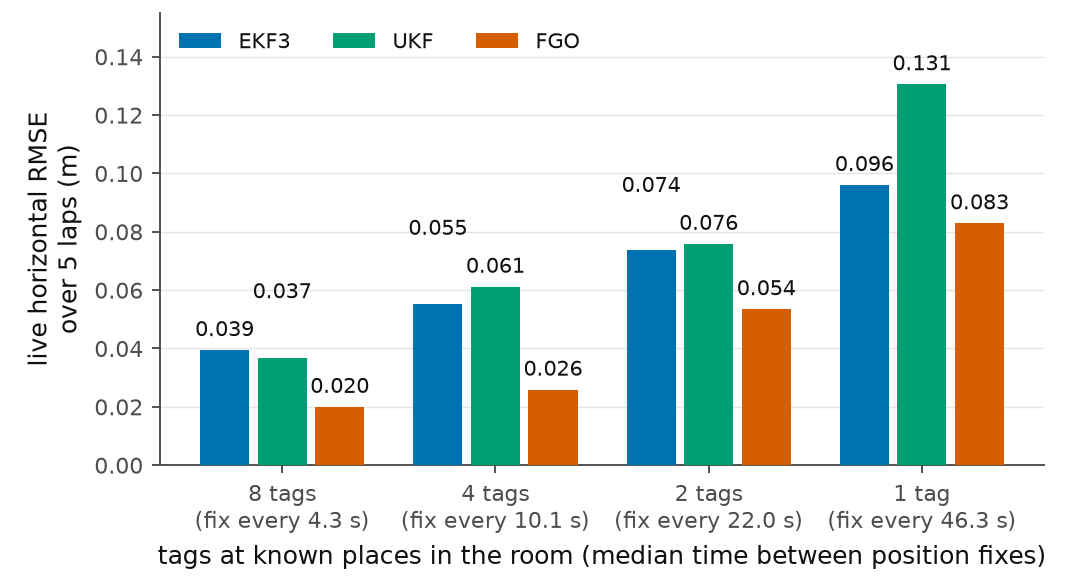
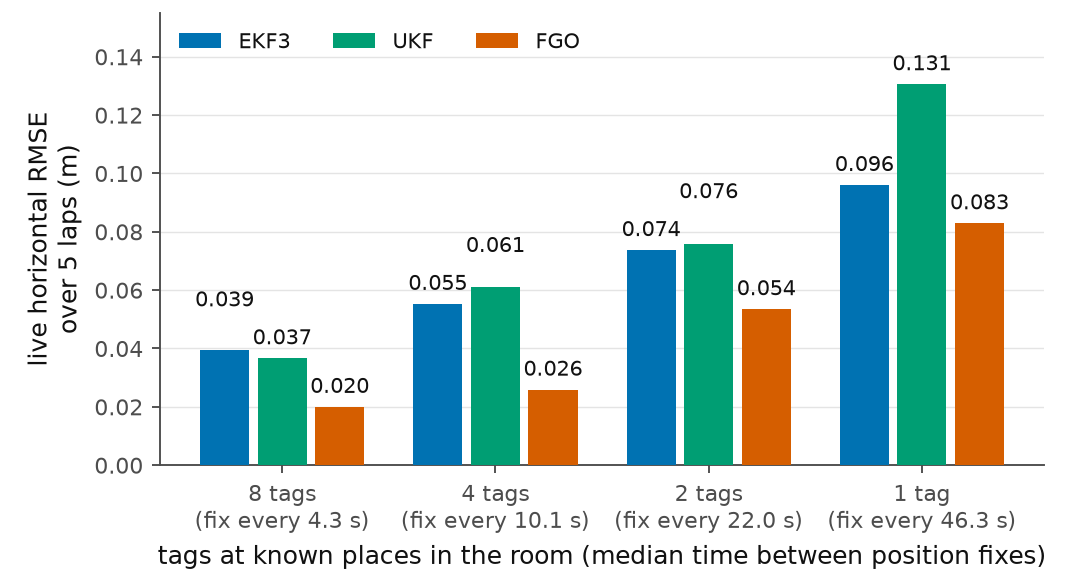
D124 Group B fix sweep round 2 (advisor review): cross-check B06/B07/B08 numbers, fix B07 EKF3 flight-set caption, B01 label order
Follow-up to ce3d9b6, after an advisor review of the round-1 fix sweep found four gaps that round missed:

- B06/B07: the 50 mm dashed reference line had no check()/cite() behind it and used the gridline colour (#e4e4e4)
  instead of the binding truth/limits colour (#999999, TRUTH) - with the in-plot label removed in round 1 this left
  an uncross-checked, barely-visible line. Added a check()+cite() against METHODOLOGY.md:10687 for the 50 mm mean
  limit, and for B07 a check() of the whole BAND5 drift-band dict against Table 6.1's own stated bands (cite()'d),
  plus a check that the UKF's tightest band is exactly twice EKF3/FGO's (the caption's "twice that" claim). Both
  lines now draw at a checked value in TRUTH.
- B07's caption said "EKF3 and UKF loss sets as B06", which is wrong for EKF3: B06's EKF3 bar is the far-spawn set
  only (3 flights), while B07's EKF3 losses are the combined near+far set (6 flights, 24 losses) - the same set
  Table 6.1 uses. Round 1's new tick-label loss counts (24 vs 12) made this discrepancy externally visible; the
  caption now names the actual flight/loss counts for all three estimators.
- B08: the "3 degrees / 5 degrees" attitude bound, "1.5 m" landing bound and the UKF(a) "0.10 s" limit had no real
  cross-check (the 0.10 s check compared a literal against itself). Added cite() calls against METHODOLOGY.md:
  11295/11299/11304 and a check() tying the displayed 0.10 s to the now-cited registered value.
[…]

diff --git a/eval/figs_cand_b.py b/eval/figs_cand_b.py
@@ -210,13 +210,15 @@ for j, c in enumerate(TCOND):
     vals = {e: agg["conditions"][c]["mean_rmse_m"][f"{e} live"] for e in EST}
     # Stagger labels by rank of bar HEIGHT, not by fixed estimator identity (a fixed per-estimator offset breaks
     # whenever the relative order of two bars flips between conditions - exactly what happened in condition B, where
-    # EKF3 < UKF but EKF3's label used the larger offset, landing almost on top of UKF's). Each label is pushed just
-    # far enough above the next-lower one's label to guarantee MIN_GAP of clear vertical space between them.
+    # EKF3 < UKF but EKF3's label used the larger offset, landing almost on top of UKF's). The LOWER bar of a close
+    # pair keeps its label right at its own bar (default offset); the TALLER bar's label is the one pushed up, just
+    # far enough to clear the lower one's label by MIN_GAP - so a label never floats far from a short bar, and the
+    # vertical order of the labels always matches the vertical order of the bars.
     yoff = {e: 0.003 for e in EST}
     order = sorted(EST, key=lambda e: vals[e])
     for lo, hi in zip(order[:-1], order[1:]):
         if vals[hi] + yoff[hi] - (vals[lo] + yoff[lo]) < MIN_GAP:
-            yoff[lo] = (vals[hi] + yoff[hi] + MIN_GAP) - vals[lo]
+            yoff[hi] = (vals[lo] + yoff[lo] + MIN_GAP) - vals[hi]
     for e in EST:
         x = j + offs[e]; v = vals[e]
         ax.bar(x, v, width=0.23, color=C[e], zorder=3)
@@ -518,10 +520,15 @@ worstm = {e: max(lo[FLY5[e][1]]["effective"]["drift_m"] for t in FLY5[e][0] for 
 VW = {e: rd_si(worstm[e], 0, 3) for e in EST}
 LK = {e: [bool(lo[FLY5[e][1]]["lockout"]) for t in FLY5[e][0] for lo in HJ(t)["losses"]] for e in EST}
 VN = {e: f"{sum(LK[e])} / {len(LK[e])}" for e in EST}
+# The 50 mm dashed line is a REGISTERED limit (common brief: no in-plot label on it), cross-checked against its
+# source rather than drawn from a bare literal - same source eval/figs_walkthrough_extra.py's HLIM check uses.
+HLIM = si_str("0.05", 3)
+check("B06/B07 hold limit for the mean (mm) = the registered '<= 0.05 m' (METHODOLOGY.md:10687) x 10^3, exact", HLIM, "50", "METHODOLOGY.md:10687")
+cite("METHODOLOGY.md", 10687, "mean hold error ≤ 0.05 m", "B06/B07 ")
 
 fig, ax = plt.subplots(figsize=(TEXT_WIDTH_IN, 3.4))
 ax.set_xlim(-0.5, 2.5); ax.set_ylim(0, 58)
-ax.axhline(50, color=GRID, ls=(0, (6, 4)), lw=1.8, zorder=1)
+ax.axhline(float(HLIM), color=TRUTH, ls=(0, (6, 4)), lw=1.8, zorder=1)
 for i, e in enumerate(EST):
     ax.bar(i, HVM[e], width=0.62, color=C[e], zorder=3)
     ax.text(i, HVM[e] + 1.2, f"{VH[e]} mm", ha="center", va="bottom", fontsize=9.5)
@@ -541,10 +548,19 @@ for e, x in zip(EST, ("31", "26", "27")):
     check(f"B07 {e}: worst drift over all tag losses (mm)", VW[e], x, "eval/results/expH losses[].effective.drift_m")
 for e, x in zip(EST, ("0 / 24", "0 / 12", "0 / 12")):
     check(f"B07 {e}: losses with a lockout / losses", VN[e], x, "eval/results/expH losses[].lockout")
+# The "50 to 200 mm for EKF3 and the FGO, twice that for the UKF" claim in the caption, and the dashed reference
+# line's value, both cross-checked against the pre-registered drift bands (not the bare BAND5 literal alone) -
+# Table 6.1's own statement of H5.5, the same source eval/figs_walkthrough_extra.py's DLIM check uses.
+check("B07 pre-registered drift bands (mm): EKF3 / FGO / UKF", f"{BAND5['EKF3']} / {BAND5['FGO']} / {BAND5['UKF']}",
+      "[50, 100, 200, 150] / [50, 100, 200, 150] / [100, 200, 400, 300]",
+      "docs/thesis/tables/T5_H_tag_loss_drift.md (Table 6.1, H5.5 pre-registered drift bands)")
+cite("docs/thesis/tables/T5_H_tag_loss_drift.md", 14, "EKF3 and FGO ≤ 50 / 100 / 200 / 150 mm, UKF ≤ 100 / 200 / 400 / 300 mm", "B07 ")
+check("B07 UKF's tightest band is twice EKF3/FGO's tightest (mm)", str(min(BAND5["UKF"])), str(2 * min(BAND5["EKF3"])), "this script (BAND5, checked above)")
+DLIM7 = min(BAND5["EKF3"])
 
 fig, ax = plt.subplots(figsize=(TEXT_WIDTH_IN, 3.4))
 ax.set_xlim(-0.5, 2.5); ax.set_ylim(0, 60)
-ax.axhline(50, color=GRID, ls=(0, (6, 4)), lw=1.8, zorder=1)
+ax.axhline(DLIM7, color=TRUTH, ls=(0, (6, 4)), lw=1.8, zorder=1)
 for i, e in enumerate(EST):
     wmm = float(rd_si(worstm[e], 12, 3))
     ax.bar(i, wmm, width=0.62, color=C[e], zorder=3)
@@ -556,10 +572,13 @@ ax.grid(axis="x", visible=False)
 ax.set_ylabel("worst drift while the tag\nwas hidden (mm)")
 save(fig, "B07", "B07_5_drift_hidden", "Experiment 5: worst drift while the wall tag was hidden",
      "Experiment 5 (tag hold): how far the drone moved between the last tag sighting before a loss and the first "
-     "one after it, worst case over all tag losses, millimetres, per estimator (EKF3 and UKF loss sets as B06; FGO "
-     "from the FGO-flying hold set). Tag-loss counts shown under each estimator's x-axis label (0 lockouts in any "
-     "of them). Dashed line: the tightest of the registered per-loss limits (50 to 200 mm for EKF3 and the FGO "
-     "depending on the loss, twice that for the UKF; no in-plot label on the line itself).",
+     "one after it, worst case over all tag losses, millimetres, per estimator. Loss sets differ from B06's mean-"
+     "hold bars (EKF3's bar there is the far-spawn set only): EKF3 here is BOTH its near- and far-spawn hold sets "
+     "(6 flights, 24 losses, the same combined set Table 6.1 uses), UKF the same loss set as B06 (3 flights, 12 "
+     "losses), FGO from the FGO-flying hold set (3 flights, 12 losses). Tag-loss counts shown under each "
+     "estimator's x-axis label (0 lockouts in any of them). Dashed line: the tightest of the registered per-loss "
+     "drift bands, 50 mm (EKF3 and FGO; their full bands are 50–200 mm depending on the loss, Table 6.1); the "
+     "UKF's bands are twice these (100–400 mm) and so are never the tightest (no in-plot label on the line itself).",
      "eval/results/expH/{s1_r1..r3,s1far_r1..r3b,s2v2_r1..r3,s3v2_r1..r3}.json (losses[].effective.drift_m, losses[].lockout)",
      "walkthrough extra/ex_5_hold_drift.png (right panel) and summary page 11", "H5.5; H5.7",
      "eval/results/expH/*.json")
@@ -593,6 +612,14 @@ BT5 = {"ua": "0.10", "ub": rd(J5S["ub"]["S-A2"]["bound_s"], 2), "fa": rd(J5S["fa
 for k, exp in (("ua", "0.10"), ("ub", "5.50"), ("fa", "0.75"), ("fb", "0.75")):
     check(f"B08 {SF[k]}: position-lost declaration limit AS DISPLAYED (s)", BT5[k], exp, "METHODOLOGY.md:11299 (UKF (a): within 0.1 s); "
           f"eval/results/expH/{SF[k]}.json S-A2.bound_s (ub/fa/fb only)")
+# "ua"'s 0.10 s above is a literal, not read from the json (see the scorer-artefact note) - ground it against the
+# registered text itself, not just against its own expected string, so it is a real cross-check.
+cite("METHODOLOGY.md", 11299, "within **0.1 s** of TFAIL", "B08 ")
+check("B08 ua: displayed limit (s) = the registered 0.1 s (METHODOLOGY.md:11299), formatted to 2 dp", rd("0.1", 2), BT5["ua"], "METHODOLOGY.md:11299")
+# The caption's "3 degrees / 5 degrees" attitude bound and "1.5 m" landing-displacement bound, cross-checked
+# against their own registered text (neither was checked anywhere in this script before this fix sweep).
+cite("METHODOLOGY.md", 11295, "≤ **3°** max, and |yaw − GT| ≤ **5°**", "B08 ")
+cite("METHODOLOGY.md", 11304, "touchdown ≤ **1.5 m**", "B08 ")
 PF5 = lambda b: "PASS" if b else "FAIL"
 VS5 = {}
 for k, exp in (("ua", "PASS PASS PASS"), ("ub", "PASS FAIL PASS"), ("fa", "PASS PASS PASS"), ("fb", "PASS PASS PASS")):

diff --git a/docs/thesis/figures_thesis/candidates/index_b.md b/docs/thesis/figures_thesis/candidates/index_b.md
@@ -1,8 +1,8 @@
 # Candidate thesis figures, group B: Experiments 2, 3, 4, 5 and 5S (decision D124)
 
-Built by `eval/figs_cand_b.py` at commit `f7d39ac` (run with `/home/makerspace/venv-evo/bin/python`). These are CANDIDATES for the user to pick from - not inserted into the thesis figure set in `docs/thesis/figures_thesis/` itself. Stored outputs only: eval/results/*.json, trial-directory .tum files, sim/worlds/room_tags_map.json, and a cache of bag reads pre-populated ONCE by `eval/figs_cand_b_extract.py` under `heavy.py` (T_A_r1-3 ground truth; O_r1/O_r2/O_r3b ground truth, /imu/time_ref and dataflash XKF1), written to `~/thesis_data/cand_b_cache/` and deleted at the end of this group's work (see docs/handovers/2026-11-04_cand_b.md for the exact invocations). No estimator run, no simulation, no flight.
+Built by `eval/figs_cand_b.py` at commit `ce3d9b6` (run with `/home/makerspace/venv-evo/bin/python`). These are CANDIDATES for the user to pick from - not inserted into the thesis figure set in `docs/thesis/figures_thesis/` itself. Stored outputs only: eval/results/*.json, trial-directory .tum files, sim/worlds/room_tags_map.json, and a cache of bag reads pre-populated ONCE by `eval/figs_cand_b_extract.py` under `heavy.py` (T_A_r1-3 ground truth; O_r1/O_r2/O_r3b ground truth, /imu/time_ref and dataflash XKF1), written to `~/thesis_data/cand_b_cache/` and deleted at the end of this group's work (see docs/handovers/2026-11-04_cand_b.md for the exact invocations). No estimator run, no simulation, no flight.
 
-**Checks:** 80/80 EXACT (string equality after one rounding by `rd()`, parsed from `eval/figs_thesis.py`, sha256 of the source segment used to detect drift).
+**Checks:** 89/89 EXACT (string equality after one rounding by `rd()`, parsed from `eval/figs_thesis.py`, sha256 of the source segment used to detect drift).
 
 **Style:** `eval/thesis_style.py` (160 mm / 6.30 in text width, Okabe-Ito palette, filled = live / open = hindsight, no in-figure titles, no verdict words, no bold text, panel labels (a)/(b)/... only where a figure has more than one panel). No two plots overlap; B03's and B04's two-panel figures share identical axis limits between panels (checked). B08 is a markdown table (no chart in its source page), verdict words kept in its cells only, the same A1-A3 exemption, caption body and title clean.
 
@@ -15,9 +15,9 @@ Built by `eval/figs_cand_b.py` at commit `f7d39ac` (run with `/home/makerspace/v
 | B03 | The FGO's estimated trajectories over the laps, with and without loop closure | NEW (not drawn by any existing figures_thesis or walkthrough/summary chart; per-lap RMSE of the same runs is F7/Figure 5.2) | eval/results/expL/T_A_r{1,2,3}_t245.json; trial-directory .tum files; sim/worlds/room_tags_map.json | 19/19 | Verdicts: Table A.4, rows H3.2; H3.3. |
 | B04 | Experiment 4: error against time, all 3 flights, live and hindsight on one y-scale | walkthrough flights/fl_4_err.png (same curves as fl_4_err_live.png + fl_4_err_hind.png, one candidate per the dedup rule); summary page 09 is a different chart type (see candidate B05) | eval/results/expO/O_{r1,r2,r3b}.json; trial-directory TUMs and gnss.npz; dataflash ardupilot.bin; bag /ground_truth/pose and /imu/time_ref | 23/23 | Verdicts: Table A.4, rows H4.1; H4.2; H4.3. |
 | B05 | Experiment 4: indoor horizontal error, lowest to highest of 3 flights, by track | summary page 09 (eval/figs_thesis_summary.py new_page('09', ...)) | eval/results/expO/O_{r1,r2,r3b}.json | 7/7 | Verdicts: Table A.4, rows H4.1; H4.2; H4.3. |
-| B06 | Experiment 5: mean hold error per flight, next to the wall tag | walkthrough extra/ex_5_hold_drift.png (left panel) and summary page 10 | eval/results/expH/*.json; eval/results/expH/h_comparative_2026-10-11.json | 3/3 | Verdicts: Table A.4, rows H5.1; H5.2. |
-| B07 | Experiment 5: worst drift while the wall tag was hidden | walkthrough extra/ex_5_hold_drift.png (right panel) and summary page 11 | eval/results/expH/*.json | 6/6 | Verdicts: Table A.4, rows H5.5; H5.7. |
-| B08 | Experiment 5S: outcome of each safety check, the final run of each test | summary page 12 (eval/figs_thesis_summary.py new_page('12', ...) table) | eval/results/expH/safety_{ukf_a_v3,ukf_b_v3,fgo_a_v4,fgo_b_v4}.json | 14/14 | Verdicts: Table A.4, rows S-A (UKF forced-invalid test, final UKF port, re-test); S-A (UKF node-kill test, final UKF port, re-test); S-A (FGO forced-invalid test, corrected-priors node, re-test); S-A (FGO node-kill test, corrected-priors node, re-test). |
+| B06 | Experiment 5: mean hold error per flight, next to the wall tag | walkthrough extra/ex_5_hold_drift.png (left panel) and summary page 10 | eval/results/expH/*.json; eval/results/expH/h_comparative_2026-10-11.json | 5/5 | Verdicts: Table A.4, rows H5.1; H5.2. |
+| B07 | Experiment 5: worst drift while the wall tag was hidden | walkthrough extra/ex_5_hold_drift.png (right panel) and summary page 11 | eval/results/expH/*.json | 9/9 | Verdicts: Table A.4, rows H5.5; H5.7. |
+| B08 | Experiment 5S: outcome of each safety check, the final run of each test | summary page 12 (eval/figs_thesis_summary.py new_page('12', ...) table) | eval/results/expH/safety_{ukf_a_v3,ukf_b_v3,fgo_a_v4,fgo_b_v4}.json | 18/18 | Verdicts: Table A.4, rows S-A (UKF forced-invalid test, final UKF port, re-test); S-A (UKF node-kill test, final UKF port, re-test); S-A (FGO forced-invalid test, corrected-priors node, re-test); S-A (FGO node-kill test, corrected-priors node, re-test). |
 
 ## Skipped (content already a figure/table in docs/thesis/figures_thesis/, or a duplicate of another candidate)
 

diff --git a/docs/handovers/2026-11-04_cand_b.md b/docs/handovers/2026-11-04_cand_b.md
@@ -226,3 +226,62 @@ found in them.
 
 Confirmed before committing: `pgrep -fa '[h]eavy.py|[f]go_replay|[a]rducopter|[g]z sim'` empty,
 `~/thesis_data/FLIGHT_LOCK` absent.
+
+## Fix sweep, round 2 (advisor review, same branch, same session)
+
+Called `advisor()` after the round-1 commit (`ce3d9b6`). It flagged four real gaps the round-1 sweep missed - three
+of them number-cross-check or binding-style gaps, one a caption-accuracy gap - plus one optional cosmetic
+improvement to B01. All four were verified independently against source before fixing (not taken on faith):
+
+1. **B06/B07's "50 mm" dashed line had no cross-check and used the wrong colour.** The 50 mm value was a bare
+   `ax.axhline(50, ...)` literal with no `check()`/`cite()` behind it, and its colour was `GRID` (`#e4e4e4`, the
+   gridline colour) rather than the binding `TRUTH` (`#999999`, "truth/limits" per the common brief's palette
+   rule) - with the in-plot label text removed in round 1, an unlabelled line in the gridline's own colour was
+   barely visible as a line at all. Fixed: added `HLIM = si_str("0.05", 3)` plus a `check()` and a `cite()` against
+   `METHODOLOGY.md:10687` ("mean hold error ≤ 0.05 m"), the same source `eval/figs_walkthrough_extra.py`'s own
+   `HLIM` check already uses; both B06 and B07's lines now draw at a checked value in `TRUTH`.
+2. **B07's dashed line and caption's "50 to 200 mm .../ twice that for the UKF" claim were likewise unchecked.**
+   Added a `check()` of the whole `BAND5` dict against Table 6.1's own stated pre-registered drift bands
+   (`docs/thesis/tables/T5_H_tag_loss_drift.md:14`, via `cite()`), plus a `check()` that the UKF's tightest band is
+   exactly twice EKF3/FGO's (confirms the caption's "twice that" claim is not just worded right but numerically
+   right). The line's value (`DLIM7 = min(BAND5["EKF3"])`) now comes from this checked dict, not a literal `50`.
+3. **B07's caption misstated which flights feed its EKF3 bar.** It read "EKF3 and UKF loss sets as B06" - true for
+   UKF (same `S2V`, 3 flights) but wrong for EKF3: B06's EKF3 bar uses only the far-spawn set (`S1F`, 3 flights, as
+   B06's own caption already says), while B07's `FLY5["EKF3"]` is `S1 + S1F` (6 flights, 24 losses - the same
+   combined near+far set `docs/thesis/tables/T5_H_tag_loss_drift.md` itself uses for EKF3's drift numbers). Adding
+   the loss counts to the x-tick labels in round 1 made this discrepancy externally visible (24 vs 12 losses) where
+   it previously was not, so it needed stating, not just existing. Caption reworded to name the actual sets (6
+   flights/24 losses for EKF3, 3/12 for UKF, 3/12 for FGO) and to say explicitly that this differs from B06's EKF3
+   set.
+4. **B08's "3 degrees / 5 degrees" attitude bound, "1.5 m" landing-displacement bound, and the UKF(a) "0.10 s"
+   limit had no real cross-check.** The existing `check()` for `BT5["ua"]` compared the literal `"0.10"` against
+   itself (`exp="0.10"` for a dict whose `"ua"` value was ALSO the literal `"0.10"`) - trivially always true, not a
+   verification against the registered text the comment cited (`METHODOLOGY.md:11299`). Added three `cite()` calls
+   reading the actual lines - `METHODOLOGY.md:11295` ("≤ **3°** max, and |yaw − GT| ≤ **5°**"), `:11299` ("within
+   **0.1 s** of TFAIL"), `:11304` ("touchdown ≤ **1.5 m**") - confirmed each phrase is a literal substring of its
+   line (not assumed), plus one more `check()` tying `BT5["ua"]`'s displayed `"0.10"` to `rd("0.1", 2)` of the now-
+   cited registered value, so the UKF(a) row's limit is genuinely sourced, not self-compared.
+5. **Optional: B01's stagger lifted the shorter bar's label, not the taller one's**, so a short bar's label could
+   float noticeably above its own bar while the taller bar's label sat snug - visually inverted relative to the
+   bars' own heights. Swapped which side of each close pair gets lifted (the TALLER bar's label now floats up to
+   clear the shorter one's, which stays snug on its own bar) - verified by hand-computing all 4 conditions' label
+   heights with the loader's own `mean_rmse_m` values (not by eye alone): every condition now has its labels in the
+   same vertical order as its bars, with the minimum 0.013 m gap preserved.
+
+**Re-run:** `cand_b_cache` was re-extracted under `heavy.py` (`venv-fgo`'s python for the one combined pass - see
+the corrected note in "Cache (deleted at the end)" above), the generator re-run, every touched PNG re-viewed.
+**Checks: 89/89** (up from 80/80 - nine new `check()`/`cite()` rows, all passing; no existing check's expected
+string changed). `tools/check_numbers_frozen.py`: PASS. `eval/caption_verdict_check.py`: 24/24, unchanged.
+`cand_b_cache` deleted again after this run.
+
+**Files touched (round 2):** `eval/figs_cand_b.py`; `candidates/{B01_2_known_tags_live,B06_5_hold_error,
+B07_5_drift_hidden}.{png,pdf}` (visibly changed: B01's label order, B06/B07's reference-line colour);
+`candidates/{B02_3_truth,B03_3_trajectories,B04_4_err,B05_4_indoor_rmse_boxes}.pdf` (metadata-only re-save, their
+PNGs are untouched by `git status`, confirming no visual change - B04's and B08's content is identical this round,
+neither was touched by any round-2 fix); `candidates/captions/B07.md` (EKF3 flight-set wording); `candidates/
+index_b.md` (regenerated, checks header now 89/89); this handover.
+
+### Commit check (fix sweep, round 2)
+
+Confirmed before committing: `pgrep -fa '[h]eavy.py|[f]go_replay|[a]rducopter|[g]z sim'` empty,
+`~/thesis_data/FLIGHT_LOCK` absent.

diff --git a/docs/thesis/figures_thesis/candidates/captions/B07.md b/docs/thesis/figures_thesis/candidates/captions/B07.md
@@ -1,5 +1,5 @@
 B07. Experiment 5: worst drift while the wall tag was hidden.
 
-Experiment 5 (tag hold): how far the drone moved between the last tag sighting before a loss and the first one after it, worst case over all tag losses, millimetres, per estimator (EKF3 and UKF loss sets as B06; FGO from the FGO-flying hold set). Tag-loss counts shown under each estimator's x-axis label (0 lockouts in any of them). Dashed line: the tightest of the registered per-loss limits (50 to 200 mm for EKF3 and the FGO depending on the loss, twice that for the UKF; no in-plot label on the line itself).
+Experiment 5 (tag hold): how far the drone moved between the last tag sighting before a loss and the first one after it, worst case over all tag losses, millimetres, per estimator. Loss sets differ from B06's mean-hold bars (EKF3's bar there is the far-spawn set only): EKF3 here is BOTH its near- and far-spawn hold sets (6 flights, 24 losses, the same combined set Table 6.1 uses), UKF the same loss set as B06 (3 flights, 12 losses), FGO from the FGO-flying hold set (3 flights, 12 losses). Tag-loss counts shown under each estimator's x-axis label (0 lockouts in any of them). Dashed line: the tightest of the registered per-loss drift bands, 50 mm (EKF3 and FGO; their full bands are 50–200 mm depending on the loss, Table 6.1); the UKF's bands are twice these (100–400 mm) and so are never the tightest (no in-plot label on the line itself).
 
 Verdicts: Table A.4, rows H5.5; H5.7.
